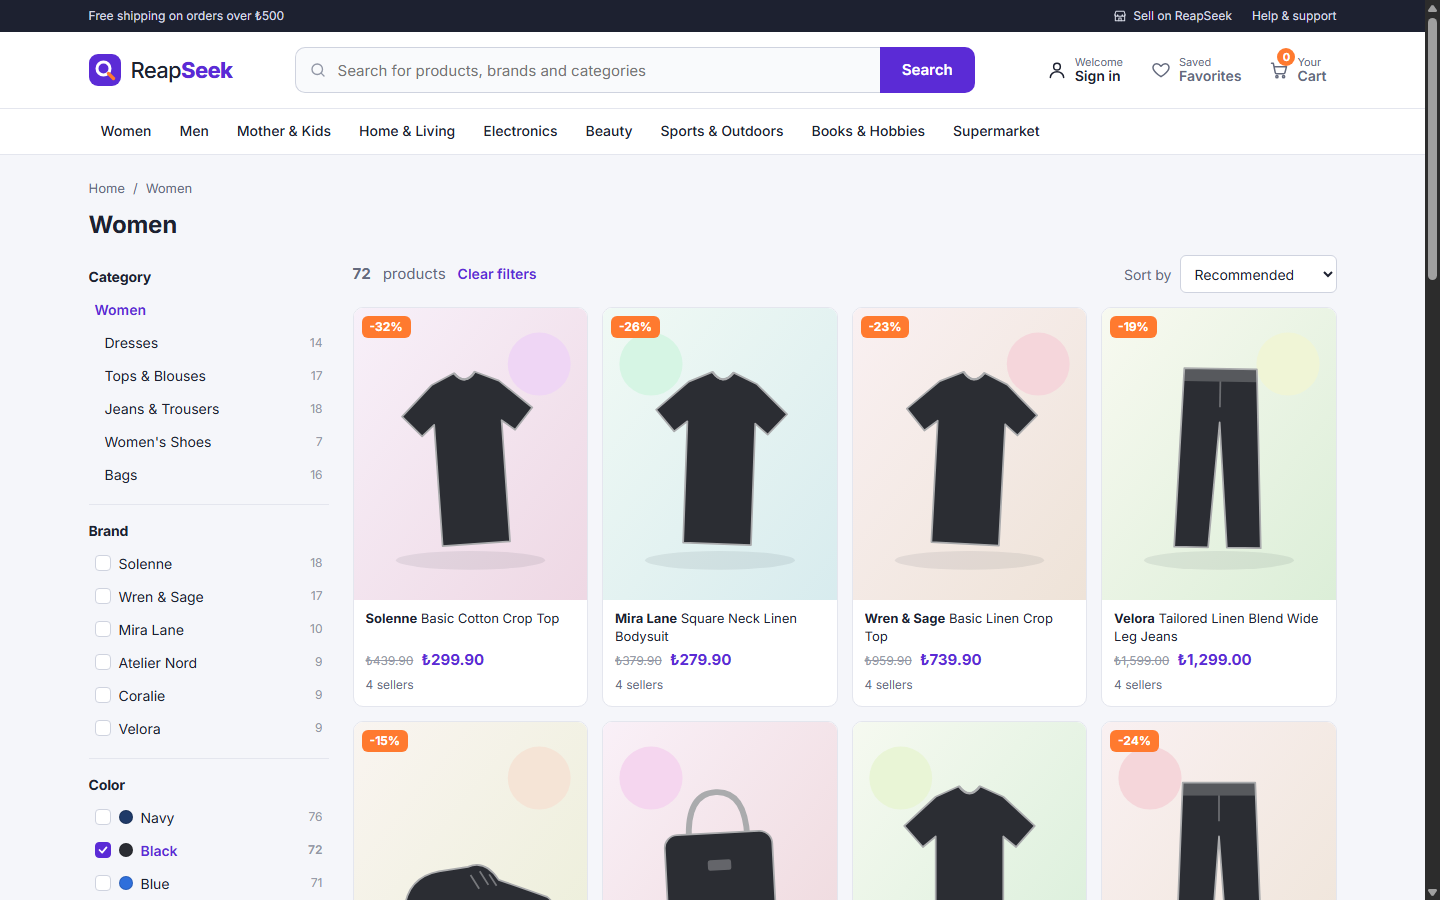
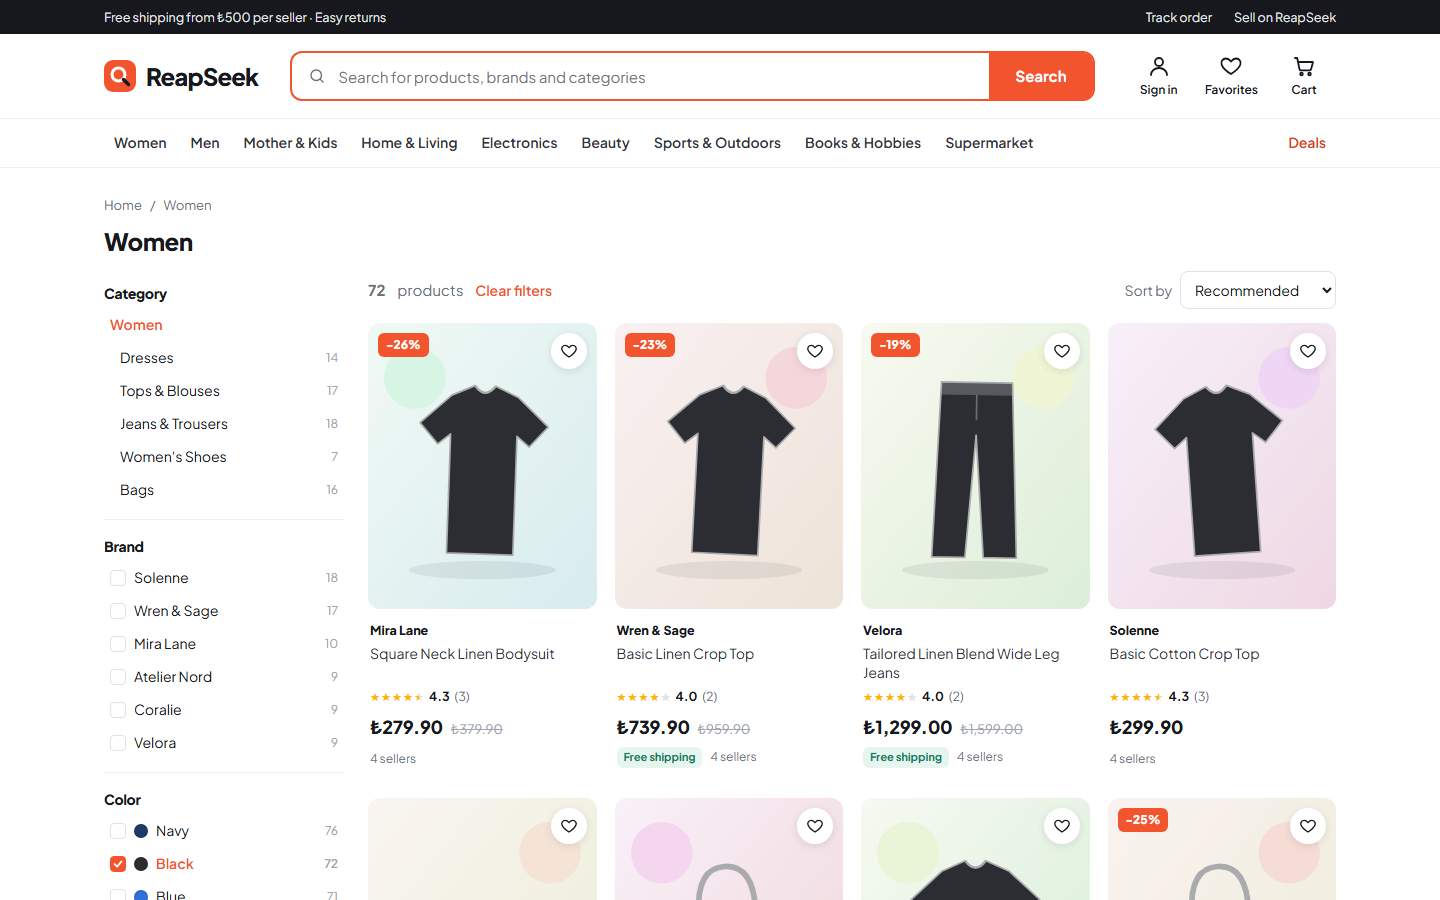
Refresh README screenshots for the Bazaar design and document mobile and security headers

diff --git a/backoffice/src/pages/Overview.tsx b/backoffice/src/pages/Overview.tsx
@@ -14,7 +14,7 @@ export function Overview({ user }: { user: User }) {
   return (
     <div className="stack">
       <Card title={`Welcome, ${user.name}`}>
-        <p className="muted">Manage the catalog, sellers and their offers. Orders, customers and marketing arrive in later releases.</p>
+        <p className="muted">Manage the catalog, sellers, orders, customers and marketing in one place.</p>
       </Card>
       <Loading state={stats}>
         {(s) => (

diff --git a/README.md b/README.md
@@ -153,6 +153,23 @@ The API, the worker and the payment sandbox export traces, metrics and logs with
 
 ![ReapSeek overview dashboard in Grafana](docs/images/grafana-overview.png)
 
+### Design and mobile
+
+Both front ends share one visual language: a white surface, a coral accent and the Plus Jakarta Sans typeface, served from the app itself (no font CDN). Colors come from design tokens (`storefront/src/styles/tokens.css`, the back office's `:root` variables), so no component hard-codes a color.
+
+- **Storefront:** a header with a framed search box, a category bar with mega menus (one open at a time, short open and close delays, closed by Esc, focus loss or navigation, reachable with the arrow keys), a home page built from real discounted products, product cards with brand, rating, price and seller count, and a dark footer.
+- **Responsive:** breakpoints at 1100, 959 and 640 pixels. On phones the storefront moves categories into a drawer, and the back office turns its sidebar into a drawer that closes on navigation and Esc; wide tables scroll inside their card. No page scrolls sideways at 390, 820 or 1440 pixels.
+
+![Home page](docs/images/storefront-home.png)
+
+![On a phone: home page, product page and the seller center menu](docs/images/storefront-mobile.png)
+
+### Security headers
+
+- **API:** `X-Content-Type-Options: nosniff`, `X-Frame-Options: DENY`, `Referrer-Policy` and `Content-Security-Policy: frame-ancestors 'none'` on every response.
+- **Storefront:** the same headers on pages (not on the proxied `/api` and `/media` routes), with a policy that blocks framing, `<base>` rewriting and plugins. A `script-src` policy would need per-request nonces in Next.js and is not set yet.
+- **Back office:** a full Content Security Policy served by nginx (scripts and API calls only from its own origin, no framing, no plugins).
+
 ### Marketplace catalog
 
 The catalog follows the model of large marketplaces: one canonical **product** (title, brand, category, attributes, images) has **variants** (every combination of its axes, such as color and size, each with a SKU), and any number of **sellers** compete on each variant with their own **offer** (price, list price, stock, handling time).
